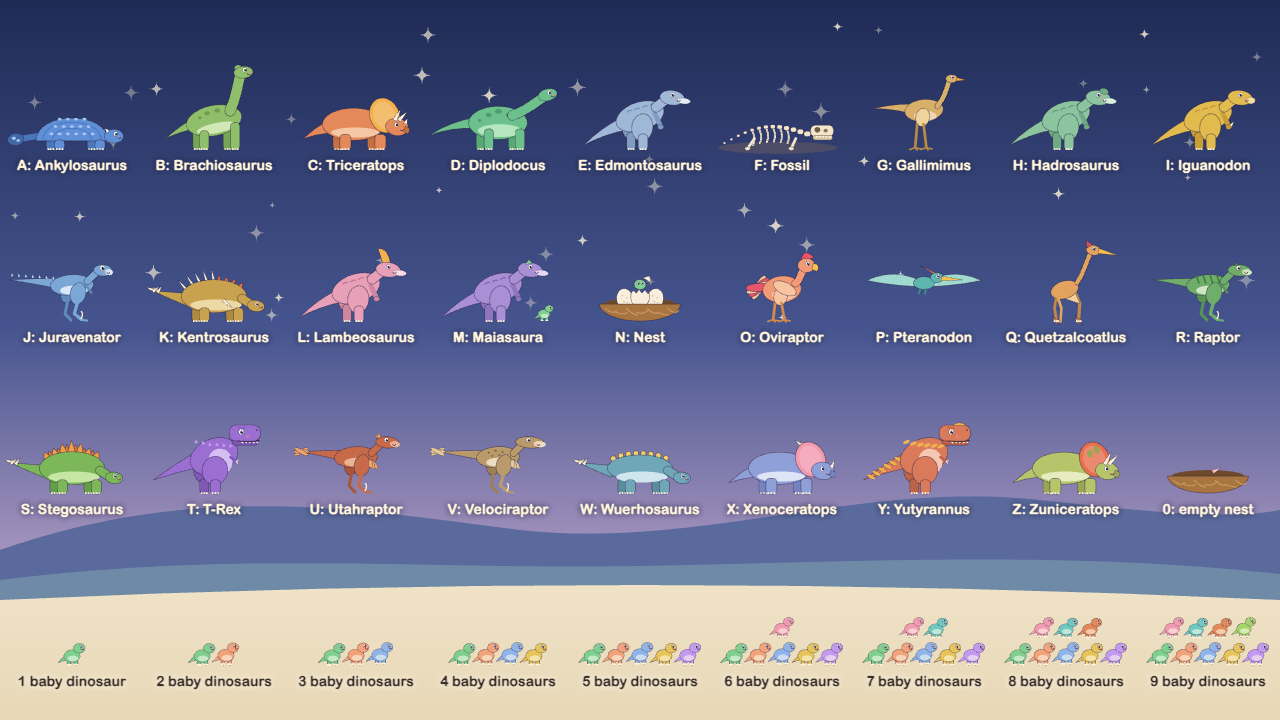
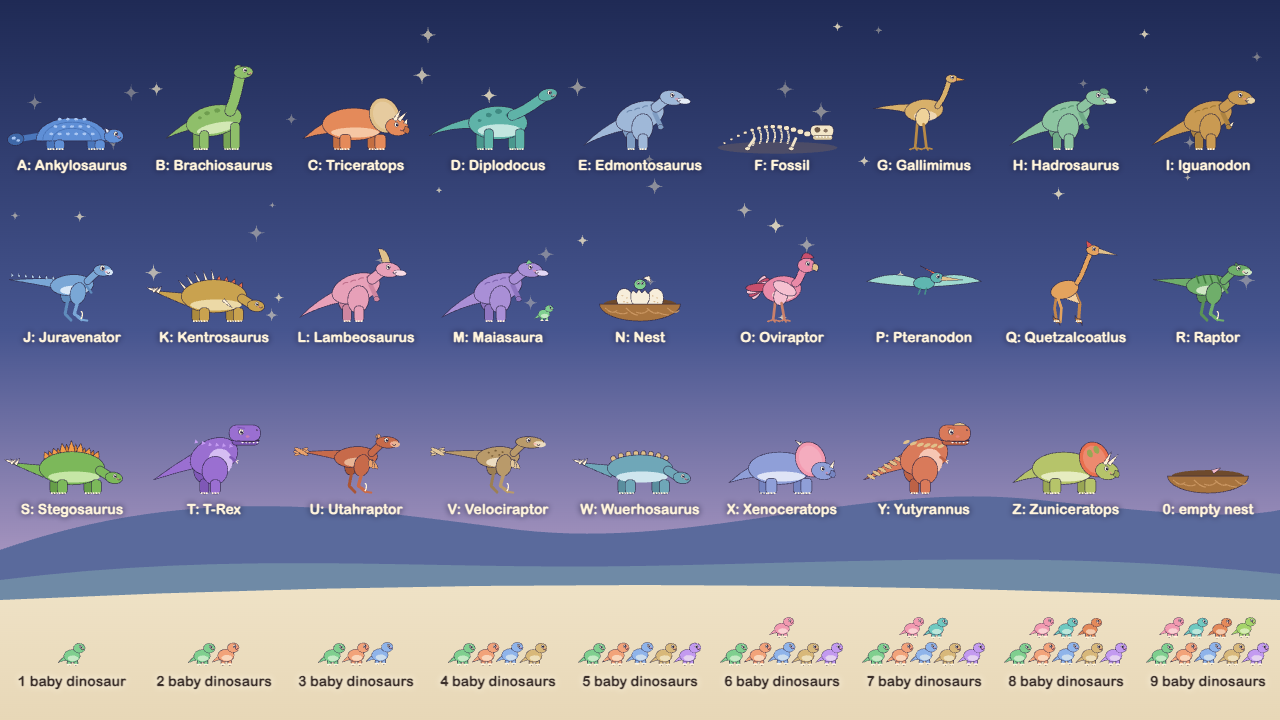
iteration 4: added tap-the-creature sound; art bible section 4 applied
Brief: design/game-brief.md

Tap the formed creature: it hops and makes its own sound again (cooldown). Art bible
section 4 (colour system) approved by Luan and applied to the one-shot: outline 80%,
hint ink #b9631c, hints in the sky only, round still queue tokens, dimmed moon, Starlight
caps, Dusk Blue grown-up accent, O rose, D teal, ochre yellows.

Task: K-06

diff --git a/games/kid-learn-character/prototypes/letter-morph-dinosaur/index.html b/games/kid-learn-character/prototypes/letter-morph-dinosaur/index.html
@@ -19,10 +19,10 @@
   #grownup h2 { margin: 0 0 6px; font-size: 22px; }
   #grownup p { margin: 0 0 14px; color: #6a5a50; font-size: 14px; }
   #grownup label { display: grid; grid-template-columns: 1fr 64px; gap: 4px 10px; margin: 10px 0; font-size: 15px; }
-  #grownup input[type=range] { grid-column: 1 / 3; width: 100%; accent-color: #e8a33c; }
+  #grownup input[type=range] { grid-column: 1 / 3; width: 100%; accent-color: #46558f; }
   #grownup .row { display: flex; flex-wrap: wrap; gap: 10px; margin-top: 16px; }
   #grownup button { font: inherit; border: 0; border-radius: 14px; padding: 10px 16px; background: #e9dcc5; color: #3b2f2a; cursor: pointer; }
-  #grownup button.main { background: #e8a33c; color: #fff; }
+  #grownup button.main { background: #46558f; color: #fff; }
 </style>
 </head>
 <body>
@@ -238,7 +238,7 @@ function say(words, cancel) {
 
 // ---- Drawing helpers: every figure drawn in code, flat storybook 2D -----------------------
 let MONO = false; // true while sampling a silhouette: everything fills white
-const OUT = 'rgba(40,30,60,0.55)';
+const OUT = 'rgba(42,35,64,0.8)'; // ink outline at 80% (art bible §4: the outline carries creatures on light skies)
 function E(c, x, y, rx, ry, rot = 0) { c.beginPath(); c.ellipse(x, y, rx, ry, rot, 0, TAU); }
 function RR(c, x, y, w, h, r) {
   c.beginPath(); c.moveTo(x + r, y); c.arcTo(x + w, y, x + w, y + h, r); c.arcTo(x + w, y + h, x, y + h, r);
@@ -248,7 +248,7 @@ function F(c, col) { c.fillStyle = MONO ? '#fff' : col; c.fill(); }
 function O(c, w = 3) { if (MONO) return; c.strokeStyle = OUT; c.lineWidth = w; c.lineJoin = 'round'; c.stroke(); }
 function S(c, col, w) { c.strokeStyle = MONO ? '#fff' : col; c.lineWidth = w; c.lineCap = 'round'; c.lineJoin = 'round'; c.stroke(); }
 function eye(c, x, y, r) {
-  E(c, x, y, r, r * 1.12); F(c, '#fffdf7'); O(c, 2);
+  E(c, x, y, r, r * 1.12); F(c, '#f8efdc'); O(c, 2);
   if (MONO) return;
   E(c, x + r * 0.22, y + r * 0.12, r * 0.58, r * 0.66); F(c, '#2a2340');
   E(c, x + r * 0.42, y - r * 0.18, r * 0.2, r * 0.2); F(c, '#ffffff');
@@ -316,7 +316,7 @@ const CREATURES = {
     }
   },
   duckbill(c, t, pal, o = {}) { // Iguanodon (thumb spike), Edmontosaurus (duck bill), Hadrosaurus (bill + nose bump), Lambeosaurus (hatchet crest), Maiasaura (brow crest + a baby)
-    const P = pick(pal, { body: '#e2bb4f', dark: '#c99f35', belly: '#f3dfa0', stripe: '#c18f2a', crest: '#e8704f' });
+    const P = pick(pal, { body: '#c99a52', dark: '#ad8340', belly: '#e9d4a6', stripe: '#9e7633', crest: '#e8704f' });
     const nod = Math.sin(t * 1.7) * 4, hx = 140, hy = -226 + nod;
     taper(c, -60, -118, -170, -80, -245, -20, 30); F(c, P.body); O(c);
     E(c, -35, -100, 42, 56, 0.15); F(c, P.dark); O(c);
@@ -361,7 +361,7 @@ const CREATURES = {
     }
   },
   ostrich(c, t, pal, o = {}) { // Oviraptor (crest, fan tail), Gallimimus (no crest, long neck, long legs)
-    const P = pick(pal, { body: '#f29a76', feather: '#f7c59f', crest: '#e8566b', leg: '#d98a4a', beak: '#f6c14b' });
+    const P = pick(pal, { body: '#e98aa8', feather: '#f5c0d0', crest: '#c94f6d', leg: '#c9806a', beak: '#e0c08a' });
     const bob = Math.sin(t * 2.4) * 4, gal = !!o.gallimimus, lift = gal ? 30 : 0;
     if (gal) { taper(c, -60, -150 - lift, -140, -160 - lift, -220, -150 - lift, 20); F(c, P.body); O(c); }
     else [[-0.2, P.feather], [0.15, P.crest], [0.5, P.feather], [0.85, P.crest]].forEach(([a, col]) => { E(c, -100, -150, 58, 18, -0.9 + a); F(c, col); O(c); });
@@ -484,7 +484,7 @@ const CREATURES = {
     c.restore();
   },
   horned(c, t, pal, o = {}) { // Triceratops (three horns), Xenoceratops (spiky frill), Zuniceratops (two brow horns, frill windows)
-    const P = pick(pal, { body: '#e48a5a', dark: '#c46f42', belly: '#f6c7a4', frill: '#f2b04f', horn: '#fff1d6' });
+    const P = pick(pal, { body: '#e48a5a', dark: '#c46f42', belly: '#f6c7a4', frill: '#e0c08a', horn: '#fff1d6' });
     const nod = Math.sin(t * 1.6) * 3, h = o.horns || 'tri';
     taper(c, -120, -100, -180, -80, -230, -50, 26); F(c, P.body); O(c);
     leg(c, -100, -74, 44, 74, P.dark); leg(c, 50, -74, 44, 74, P.dark);
@@ -504,7 +504,7 @@ const CREATURES = {
     c.restore();
   },
   flyer(c, t, pal, o = {}) { // Pteranodon (flying, long back crest), Quetzalcoatlus (standing tall on four long limbs)
-    const P = pick(pal, { body: '#5fb6b0', dark: '#468f8a', wing: '#9fd9cf', beak: '#f6c14b', crest: '#e8704f' });
+    const P = pick(pal, { body: '#5fb6b0', dark: '#468f8a', wing: '#9fd9cf', beak: '#e0c08a', crest: '#e8704f' });
     if (o.standing) {
       const sway = Math.sin(t * 1.2) * 5;
       c.beginPath(); c.moveTo(-40, -120); c.lineTo(-50, -60); c.lineTo(-40, 0); S(c, P.dark, 12);
@@ -547,7 +547,7 @@ const CREATURES = {
     c.restore();
   },
   babies(c, t, pal, o = {}) { // the numbers: exactly n little hatchlings
-    const n = o.n || 1, cols = ['#7fcf8f', '#f2a37a', '#8fb4ea', '#e7c45a', '#c39af0', '#f29ab0', '#6fc9c0', '#e48a5a', '#a5d46a'];
+    const n = o.n || 1, cols = ['#7fcf8f', '#f2a37a', '#8fb4ea', '#d8b87a', '#c39af0', '#f29ab0', '#6fc9c0', '#e48a5a', '#a5d46a'];
     const front = Math.min(n, 5), backN = n - front;
     for (let i = 0; i < backN; i++) baby(c, (i - (backN - 1) / 2) * 104, -118, 0.95, cols[(i + 5) % cols.length], t, i + 5);
     for (let i = 0; i < front; i++) baby(c, (i - (front - 1) / 2) * 104, 0, 1.05, cols[i % cols.length], t, i);
@@ -573,7 +573,8 @@ function bakeShapes() {
       c.fillStyle = '#fff'; c.font = `900 ${LETTER_SIZE}px ${GLYPH_FONT}`; c.textAlign = 'center'; c.textBaseline = 'middle'; c.fillText(L, 230, 240);
     }, 230, 240);
     const body = sample(680, 440, c => { MONO = true; c.translate(340, 410); drawKind(c, L, 0); MONO = false; }, 340, 410);
-    shapes[L] = { glyph, body };
+    const xs = body.map(q => q[0]), ys = body.map(q => q[1]);
+    shapes[L] = { glyph, body, box: { x0: Math.min(...xs), x1: Math.max(...xs), y0: Math.min(...ys), y1: Math.max(...ys) } };
   }
 }
 bakeShapes();
@@ -581,7 +582,7 @@ bakeShapes();
 // ---- Layout ------------------------------------------------------------------------------
 // No fixed key row: a few glowing letters drift in at random spots as hints, and can be tapped.
 const KEYBOARD_FROM = { x: 640, y: 700 }; // a letter pressed on a real keyboard rises from here
-const HINT_AREAS = [{ x0: 110, x1: 380, y0: 160, y1: 560 }, { x0: 900, x1: 1170, y0: 160, y1: 560 }];
+const HINT_AREAS = [{ x0: 110, x1: 380, y0: 150, y1: 420 }, { x0: 900, x1: 1170, y0: 150, y1: 420 }]; // sky only (art bible §4)
 function spawnHint() {
   const onScreen = state.hints.map(h => h.L).concat(state.cur ? [state.cur.letter] : []);
   const pool = KEY_ORDER.filter(L => !onScreen.includes(L));
@@ -670,6 +671,19 @@ function burst(x, y, n) {
     sparks.push({ x, y, vx: Math.cos(a) * s, vy: Math.sin(a) * s - 30, life: 0.6 + rng() * 0.4, age: 0, size: 3 + rng() * 4 });
   }
 }
+function onCreature(p) { // the formed creature on stage, by its silhouette's box
+  const cur = state.cur;
+  if (!cur || !cur.fired.form) return false;
+  const b = shapes[cur.letter].box, sc = tune.creature_scale;
+  return p.x >= ANCHOR_X + b.x0 * sc && p.x <= ANCHOR_X + b.x1 * sc && p.y >= ANCHOR_Y + b.y0 * sc && p.y <= ANCHOR_Y + b.y1 * sc;
+}
+function tapCreature(p) { // it hops and makes its own sound again
+  const cur = state.cur;
+  if (state.t - (cur.lastTap ?? -99) < tune.tap_cooldown_s) { burst(p.x, p.y, 4); return; }
+  cur.lastTap = state.t; cur.hop = 0;
+  creatureSound(cur.letter); burst(p.x, p.y, 6);
+  state.taps = (state.taps || 0) + 1; events.push({ type: 'creature-tap', letter: cur.letter });
+}
 function nothingPress(x, y) { ping(); burst(x, y, 6); }
 
 // ---- Scenes ------------------------------------------------------------------------------
@@ -716,7 +730,7 @@ const scenes = {
       }
       while (taps.length) {
         const p = taps.shift(), h = hintAt(p);
-        if (h) pressLetter(h.L, h); else nothingPress(p.x, p.y);
+        if (h) pressLetter(h.L, h); else if (onCreature(p)) tapCreature(p); else nothingPress(p.x, p.y);
       }
       // hint letters drift in, linger and fade, a few at a time
       for (let i = state.hints.length - 1; i >= 0; i--) { const h = state.hints[i]; h.age += dt; if (h.age > h.life) state.hints.splice(i, 1); }
@@ -731,6 +745,7 @@ const scenes = {
           if (!state.seen.includes(cur.letter)) state.seen.push(cur.letter);
           events.push({ type: 'formed', letter: cur.letter });
         }
+        if (cur.hop !== undefined) { cur.hop += dt; if (cur.hop > tune.hop_s) cur.hop = undefined; }
         if (state.queue.length && cur.t >= holdTime()) { const q = state.queue.shift(); startReveal(q.L, q.from); }
       }
       if (state.prev) { state.prev.t += dt; state.prev.fade += dt; if (state.prev.fade > 0.45) state.prev = null; }
@@ -774,7 +789,7 @@ function drawSky() {
   g.addColorStop(0, '#1f2a55'); g.addColorStop(0.55, '#46558f'); g.addColorStop(1, '#b8a0c8');
   ctx.fillStyle = g; ctx.fillRect(0, 0, W, H);
   const tt = state ? state.t : 0;
-  ctx.fillStyle = '#fff6da';
+  ctx.fillStyle = '#fbeec8'; // Starlight (frame cap)
   for (const s of STARS) { ctx.globalAlpha = 0.35 + 0.45 * (0.5 + 0.5 * Math.sin(tt * s.sp + s.ph)); star4(s.x, s.y, s.s); }
   ctx.globalAlpha = 1;
 }
@@ -793,11 +808,11 @@ function drawGround() {
 }
 function drawMoon() {
   const { x, y } = GATE;
-  glowDisk(x, y, 60, 'rgba(255,240,190,0.35)');
-  ctx.fillStyle = '#fff2c4'; ctx.beginPath(); ctx.arc(x, y, 26, 0, TAU); ctx.arc(x + 11, y - 8, 22, 0, TAU, true); ctx.fill('evenodd');
+  glowDisk(x, y, 50, 'rgba(230,214,164,0.22)');
+  ctx.fillStyle = '#e6d6a4'; /* the moon, dimmed below the glyph (art bible §2) */ ctx.beginPath(); ctx.arc(x, y, 26, 0, TAU); ctx.arc(x + 11, y - 8, 22, 0, TAU, true); ctx.fill('evenodd');
   if (gateHeld && state && state.gate > 0) {
     ctx.beginPath(); ctx.arc(x, y, 38, -Math.PI / 2, -Math.PI / 2 + TAU * clamp01(state.gate / tune.gate_hold_s));
-    ctx.strokeStyle = '#ffd36e'; ctx.lineWidth = 5; ctx.lineCap = 'round'; ctx.stroke();
+    ctx.strokeStyle = '#fbeec8'; ctx.lineWidth = 5; ctx.lineCap = 'round'; ctx.stroke();
   }
 }
 function drawPlay(x, y, t) {
@@ -841,7 +856,8 @@ function drawReveal() {
   if (t >= ph.flowEnd) {
     const u = smooth((t - ph.flowEnd) / (ph.formEnd - ph.flowEnd));
     const pop = 0.92 + 0.08 * u + Math.sin(u * Math.PI) * 0.03;
-    drawCreature(L, ANCHOR_X, ANCHOR_Y, tune.creature_scale * pop, t - ph.flowEnd, u);
+    const hop = cur.hop !== undefined ? Math.sin(Math.PI * clamp01(cur.hop / tune.hop_s)) * tune.hop_px : 0;
+    drawCreature(L, ANCHOR_X, ANCHOR_Y - hop, tune.creature_scale * pop, t - ph.flowEnd, u);
   }
   // 3-4. stardust: in the letter's outline, then flowing to the creature's shape
   if (t >= ph.glowEnd && t < ph.formEnd + 0.2) {
@@ -860,7 +876,7 @@ function drawReveal() {
       }
       const tw = 0.6 + 0.4 * Math.sin(t * 9 + p.ph);
       ctx.globalAlpha = a * tw;
-      ctx.fillStyle = p.gold ? '#ffd27a' : '#fff8e8';
+      ctx.fillStyle = p.gold ? '#ffd27a' : '#fbeec8';
       const s = p.size;
       if (s > 3.2) star4(x, y, s * 0.55); else ctx.fillRect(x - s / 2, y - s / 2, s, s);
     }
@@ -873,12 +889,12 @@ function drawPrev() {
   if (p.t < ph.flowEnd) return; // it never formed: nothing to fade
   drawCreature(p.letter, ANCHOR_X, ANCHOR_Y + u * 12, tune.creature_scale * (1 - u * 0.08), p.t - ph.flowEnd, 1 - u);
 }
-function drawQueue() { // letters waiting their turn: small glowing bubbles, top right
+function drawQueue() { // letters waiting their turn: small round tokens in a still row, top right (art bible §3)
   state.queue.forEach(({ L }, i) => {
-    const x = 1210 - i * 74, y = 58 + Math.sin(state.t * 3 + i) * 4;
-    glowDisk(x, y, 46, 'rgba(255,214,110,0.35)');
-    RR(ctx, x - 28, y - 28, 56, 56, 22); ctx.fillStyle = 'rgba(255,246,222,0.92)'; ctx.fill();
-    ctx.save(); ctx.font = `900 34px ${GLYPH_FONT}`; ctx.textAlign = 'center'; ctx.textBaseline = 'middle'; ctx.fillStyle = '#e09a2e'; ctx.fillText(L, x, y + 2); ctx.restore();
+    const x = 1214 - i * 66, y = 58;
+    glowDisk(x, y, 40, 'rgba(255,214,110,0.28)');
+    ctx.beginPath(); ctx.arc(x, y, 26, 0, TAU); ctx.fillStyle = '#f8efdc'; ctx.fill();
+    ctx.save(); ctx.font = `900 30px ${GLYPH_FONT}`; ctx.textAlign = 'center'; ctx.textBaseline = 'middle'; ctx.fillStyle = '#b9631c'; ctx.fillText(L, x, y + 2); ctx.restore();
   });
 }
 function drawHints() { // glowing letters drifting on screen: a hint and a tap target
@@ -890,9 +906,9 @@ function drawHints() { // glowing letters drifting on screen: a hint and a tap t
     ctx.save(); ctx.globalAlpha = a;
     glowDisk(x, y, sz * 0.95, `rgba(255,214,110,${0.35 + pulse * 0.2})`);
     ctx.shadowColor = 'rgba(255,200,80,0.8)'; ctx.shadowBlur = 18 + pulse * 14;
-    RR(ctx, x - sz / 2, y - sz / 2, sz, sz, sz * 0.36); ctx.fillStyle = 'rgba(255,248,230,0.95)'; ctx.fill(); ctx.shadowBlur = 0;
+    RR(ctx, x - sz / 2, y - sz / 2, sz, sz, sz * 0.36); ctx.fillStyle = '#f8efdc'; ctx.fill(); ctx.shadowBlur = 0;
     ctx.font = `900 ${Math.round(sz * 0.66)}px ${GLYPH_FONT}`; ctx.textAlign = 'center'; ctx.textBaseline = 'middle';
-    ctx.fillStyle = '#e0892a'; ctx.fillText(h.L, x, y + sz * 0.04);
+    ctx.fillStyle = '#b9631c'; ctx.fillText(h.L, x, y + sz * 0.04);
     ctx.fillStyle = `rgba(255,236,170,${0.6 + 0.4 * Math.sin(state.t * 5 + h.ph)})`; star4(x + sz * 0.42, y - sz * 0.42, 4 + pulse * 3);
     ctx.restore();
   }

diff --git a/games/kid-learn-character/prototypes/letter-morph-dinosaur/config.js b/games/kid-learn-character/prototypes/letter-morph-dinosaur/config.js
@@ -26,6 +26,10 @@ window.CONFIG = {
   creature_scale: { value: 1, min: 0.6, max: 1.3, step: 0.05 },
   bob_px: { value: 5, min: 0, max: 15, step: 1 },                // px: idle breathing bob
   key_flash_s: { value: 0.35, min: 0.1, max: 1, step: 0.05 },    // s: a pressed key glows this long
+  // --- Tap the creature: it hops and makes its own sound again (After play: helps the child learn it) ---
+  tap_cooldown_s: { value: 0.9, min: 0.2, max: 3, step: 0.1 },   // s: taps closer than this only sparkle, so sounds never stack
+  hop_px: { value: 26, min: 0, max: 60, step: 2 },               // px: how high the creature hops on a tap
+  hop_s: { value: 0.45, min: 0.2, max: 1, step: 0.05 },          // s: the hop's length
   // --- Sound and voice ---
   voice_rate: { value: 0.85, min: 0.5, max: 1.3, step: 0.05 },
   voice_pitch: { value: 1.15, min: 0.5, max: 2, step: 0.05 },
@@ -55,7 +59,7 @@ window.KEY_TABLE = {
   A: { name: 'Ankylosaurus', word: 'ankylosaurus', say: 'A.', creature: 'ankylosaurus', sound: { kind: 'thump', f0: 60, cut: 380, dur: 0.8, vol: 0.7, vib: 4 } },
   B: { name: 'Brachiosaurus', word: 'brachiosaurus', say: 'bee', creature: 'sauropod', opts: { tall: true }, pal: { body: '#8fbf6a', dark: '#77a556', belly: '#d2e8b4', spot: '#6f9e4f' }, sound: ROAR_DEEP },
   C: { name: 'Triceratops', word: 'triceratops', say: 'see', creature: 'horned', opts: { horns: 'tri' }, sound: GRUMBLE },
-  D: { name: 'Diplodocus', word: 'diplodocus', say: 'dee', creature: 'sauropod', sound: ROAR_DEEP },
+  D: { name: 'Diplodocus', word: 'diplodocus', say: 'dee', creature: 'sauropod', pal: { body: '#5fb3a8', dark: '#4a988e', belly: '#c2e6e0', spot: '#3f8a82' }, sound: ROAR_DEEP },
   E: { name: 'Edmontosaurus', word: 'edmontosaurus', say: 'ee', creature: 'duckbill', opts: { head: 'duck' }, pal: { body: '#9fb8d8', dark: '#7f9cc2', belly: '#e4ecf6', stripe: '#6f8bb0' }, sound: HONK },
   F: { name: 'Fossil', word: 'fossil', say: 'eff', creature: 'fossil', sound: { kind: 'crack' } },
   G: { name: 'Gallimimus', word: 'gallimimus', say: 'jee', creature: 'ostrich', opts: { gallimimus: true }, pal: { body: '#d8b06a', feather: '#efd39a', leg: '#b98a46', beak: '#f2a640' }, sound: CHIRP },
@@ -63,7 +67,7 @@ window.KEY_TABLE = {
   I: { name: 'Iguanodon', word: 'iguanodon', say: 'eye', creature: 'duckbill', opts: { head: 'thumb' }, sound: HONK },
   J: { name: 'Juravenator', word: 'juravenator', say: 'jay', creature: 'raptor', opts: { fuzz: true, snout: 0.8, tail: 1.15, bigEye: true }, pal: { body: '#7aa7d6', dark: '#5f8cbc', feather: '#b9d6f2', belly: '#d9e8f7' }, sound: SCREECH },
   K: { name: 'Kentrosaurus', word: 'kentrosaurus', say: 'kay', creature: 'plated', opts: { kind: 'kentro' }, pal: { body: '#c9a24f', dark: '#ad8a3e', belly: '#ecd9a6', plate: '#e86f4f' }, sound: GRUMBLE },
-  L: { name: 'Lambeosaurus', word: 'lambeosaurus', say: 'el', creature: 'duckbill', opts: { head: 'hatchet' }, pal: { body: '#e7a0b8', dark: '#cf86a0', belly: '#f8dbe5', stripe: '#bf6f8c', crest: '#f2b04f' }, sound: HONK },
+  L: { name: 'Lambeosaurus', word: 'lambeosaurus', say: 'el', creature: 'duckbill', opts: { head: 'hatchet' }, pal: { body: '#e7a0b8', dark: '#cf86a0', belly: '#f8dbe5', stripe: '#bf6f8c', crest: '#e0c08a' }, sound: HONK },
   M: { name: 'Maiasaura', word: 'maiasaura', say: 'em', creature: 'duckbill', opts: { head: 'brow', baby: true }, pal: { body: '#a98fd6', dark: '#8f75c0', belly: '#e3d8f5', stripe: '#7c62ad', crest: '#7fcf8f' }, sound: HONK },
   N: { name: 'Nest', word: 'nest', say: 'en', creature: 'nest', sound: { kind: 'crack' } },
   O: { name: 'Oviraptor', word: 'oviraptor', say: 'oh', creature: 'ostrich', sound: CHIRP },
@@ -74,9 +78,9 @@ window.KEY_TABLE = {
   T: { name: 'T-Rex', word: 'tee rex', say: 'tee', creature: 'rex', sound: ROAR_BIG },
   U: { name: 'Utahraptor', word: 'utahraptor', say: 'you', creature: 'raptor', opts: { armFeathers: true, crest: true }, sound: RAPTOR },
   V: { name: 'Velociraptor', word: 'velociraptor', say: 'vee', creature: 'raptor', opts: { armFeathers: true, speckles: true, snout: 1.25, tail: 1.1 }, pal: { body: '#b99a6a', dark: '#9c7f54', feather: '#e2c79a', belly: '#ecdcc0', mark: '#7a5f3a' }, sound: RAPTOR },
-  W: { name: 'Wuerhosaurus', word: 'wuerhosaurus', say: 'double you', creature: 'plated', opts: { kind: 'wuerho' }, pal: { body: '#6fa7b8', dark: '#5a8e9e', belly: '#cfe6ee', plate: '#f2d06a' }, sound: GRUMBLE },
+  W: { name: 'Wuerhosaurus', word: 'wuerhosaurus', say: 'double you', creature: 'plated', opts: { kind: 'wuerho' }, pal: { body: '#6fa7b8', dark: '#5a8e9e', belly: '#cfe6ee', plate: '#e0c08a' }, sound: GRUMBLE },
   X: { name: 'Xenoceratops', word: 'xenoceratops', say: 'ex', creature: 'horned', opts: { horns: 'xeno' }, pal: { body: '#8f9fd8', dark: '#7584c0', belly: '#dfe4f6', frill: '#f29ab0' }, sound: GRUMBLE },
-  Y: { name: 'Yutyrannus', word: 'yutyrannus', say: 'why', creature: 'rex', opts: { feathers: true }, pal: { body: '#d97a5a', dark: '#bd6246', belly: '#f6c7b4', ridge: '#f2b04f' }, sound: ROAR_BIG },
+  Y: { name: 'Yutyrannus', word: 'yutyrannus', say: 'why', creature: 'rex', opts: { feathers: true }, pal: { body: '#d97a5a', dark: '#bd6246', belly: '#f6c7b4', ridge: '#e0c08a' }, sound: ROAR_BIG },
   Z: { name: 'Zuniceratops', word: 'zuniceratops', say: 'zee', creature: 'horned', opts: { horns: 'zuni' }, pal: { body: '#b6c46a', dark: '#99a654', belly: '#e6ecc0', frill: '#e8704f' }, sound: GRUMBLE },
 };
 // The numbers: the digit morphs into exactly that many baby dinosaurs (0: an empty nest).

diff --git a/games/kid-learn-character/design/art/art-bible.md b/games/kid-learn-character/design/art/art-bible.md
@@ -179,10 +179,92 @@ outline marks a hero.**
 
 ## 4. Color System
 
-[To be designed] — a primary palette of 5–7 colours with their meaning in this
-world, semantic colour usage, per-area colour temperature rules, the UI palette
-and where it diverges, and colourblind safety: which semantic colours need a
-shape, icon or sound backup.
+**Colour rule: gold is a letter, and every other colour makes room for it.** No colour means
+danger, failure or reward. There is no wrong press, so the game never uses red for wrong, green for
+right, or gold for "well done": every press is answered the same way.
+
+### Fixed hues (the same in every look)
+
+| Token | Hexes | Meaning and use |
+|---|---|---|
+| **Letter Gold** | fill `#fff1b8` / `#ffd36e` / `#f6a93b`; outline `#8a4b12`; token ink `#b9631c` | "A letter or number lives here." The glyph, hints, queued tokens and the title's play button (their door, Section 2). Nothing else is gold. |
+| **Starlight** | `#fbeec8` (L 0.86) | "I heard you." Sparkles, pale stardust specks, sky stars at ≤ 80% alpha; also the moon's progress ring. |
+| **Ink** | `#2a2340`; creature outline at **80%** in every look | "A hero" (Section 3): outlines, pupils, smiles. |
+| **Stage Cream** | stage `#efe2c6` → `#e3d1ae`; highlight `#f8efdc` (L 0.87); bone `#f3e6c8`; card `#fbf4e6` | Ground, token bubbles, horns, toes, eye whites. |
+| **Shared constants** | nest `#a8743f`, fossil rock `#6e4a2c`, moon `#e6d6a4` | The same object in every theme and look. |
+
+Section 2's frame cap (L 0.88) applies to these tokens too: the prototype's stars `#fff6da`,
+stardust `#fff8e8`, hint bubble and eye whites (L 0.92–0.99) move to Starlight and highlight
+cream. The grown-up card is exempt: it sits under the 55% navy dim.
+
+### Per-look stage palettes
+
+Section 2's table holds every stage hex. A look or a weather tint is valid when all three hold:
+1. every sky stop, sun, moon, cloud and flake stays at or below L 0.69;
+2. the glyph reaches ≥ 3:1 against the sky's mid band, through its fill or its amber outline;
+3. it uses no Letter Gold, and any stage yellow stays pale, like the sun `#ecd29a`.
+
+**Temperature:** the glyph is the warmest thing in every look. *Morning:* cool at the top, warmth
+only in the peach horizon band. *Day:* neutral to cool; warmth comes only from the glyph and the
+creatures. *Dusk (home):* cool blue with a lilac horizon. *Night:* the coolest look; the moon is
+the only warm sky element, and it is desaturated. Weather is picked by hand by a grown-up behind
+the parent gate, and it only cools or greys the scene (rain takes 10% saturation off; snow is
+`#cfd6e3`). The parade's horizon lift is the only allowed warming.
+
+### Creature palettes
+
+Each creature's body takes one of eight hue **slots**. A slot holds at most 4 creatures per theme.
+Siblings in one family never share a slot, and never use leaf and mint together (they read as one
+green). F and N are objects and use the shared constants.
+
+| Slot | Hue | Dinosaurs (applied 2026-11-17) |
+|---|---|---|
+| Rose | 320–355° | L, O |
+| Coral | 5–32° | C, Q, U, Y |
+| Ochre | 33–50°, S ≤ 60% | G, I, K, V |
+| Leaf | 65–130° | B, R, S, Z |
+| Mint | 130–165° | H |
+| Teal | 165–200° | P, W, D |
+| Blue | 200–235° | A, E, J, X |
+| Violet | 250–290° | M, T |
+
+- **Band:** body relative luminance 0.20–0.47, HSL saturation 35–65%; accents (plates, frills,
+  crests) up to 75%.
+- **Ochre, never gold:** creature yellows stay at ≤ 60% saturation and lean toward brown (`#c99a52`,
+  `#e0c08a`; baby `#d8b87a`). The prototype's `#f2b04f`, `#f2d06a`, `#f6c14b`, `#e2bb4f`,
+  `#e7c45a` move to these.
+- **Greyscale stage test, every look (and with snow).** A creature passes when it separates from
+  both the sky's mid band and the front hill: body ≥ 1.5:1 or outline ≥ 3:1. At night the body
+  carries it; at dusk the body carries it against the sky; in morning, day and against the dusk
+  front hill only the outline carries it (a mid-tone body is ~1.05:1 on the dusk hill, ~1.2:1 on
+  the day sky). That is why the outline is 80%: 3.2:1 on the dusk hill and 3.9:1 on the day hill,
+  against 2.3:1 and 2.6:1 at the prototype's 55%.
+- **Number babies:** nine pastels, one per slot plus a second coral (apricot), always in the same
+  order so neighbouring babies differ.
+
+### UI palette
+
+- **Hints and queued tokens:** Letter Gold ink `#b9631c` on highlight cream (about 4:1; the
+  prototype's `#e0892a` was about 2.5:1). Hints spawn **in the sky only**: on the cream ground a
+  cream bubble loses its edge and crowds the creature's ground line.
+- **"Seen" letters get no mark** (Luan, 2026-11-17): the parade already shows progress, and a mark
+  would introduce a reward colour.
+- **Grown-up panel and moon ring:** panel controls in Dusk Blue `#46558f` (6.5:1 on the card) and
+  the moon's progress ring in Starlight (Luan, 2026-11-17), so gold means only letters. Trade-off:
+  the ring is weaker on the day sky (~2.5:1); its length and the hold time carry it.
+
+### Colourblind safety
+
+| Meaning | Colour | Backup cue |
+|---|---|---|
+| A letter or number | Letter Gold | Largest, centred, outlined, spoken |
+| I heard you | Starlight | Four-point star at the press point, plus a chime |
+| Hint vs waiting | Same gold on cream | Drifting rounded square vs a small circle in a still row |
+| Which creature | Slot | Silhouette trait and spoken name |
+| Moon gate progress | Ring | Ring length and hold time |
+
+Under deuteranopia leaf, ochre and coral converge, so raptors R, U and V become one brown. Their
+outline traits (Section 3) tell them apart, which is why markings are never the only difference.
 
 ## 5. Character Design Direction
 

diff --git a/games/kid-learn-character/design/game-brief.md b/games/kid-learn-character/design/game-brief.md
@@ -15,6 +15,7 @@ After play (asked): the A–Z table and numbers as N baby dinosaurs — "Làm đ
 After play: khoảnh khắc hay và vui nhất là sau khi kết thúc 1 loạt phím, thì có đoàn khủng long chạy qua, rất vui và bất ngờ
 After play: tệ nhất là khi nhấn vào các phím controls, thì có thê bị chuyển app hoặc mất focus lên game
 After play: trong bản dùng thử, phần đọc ký tự A đang bị sai, đang theo tiếng Việt, không đúng tiếng Anh
+After play: nên bổ sung âm thanh khi bé tap lên con vật hoặc xe, những đối tượng có âm thanh đặc trưng, sẽ giúp bé học nhanh hơn cách nhận biết
 
 **Pitch:** Dinosaurs is the theme: a toddler presses any letter or number, and the big glowing letter dissolves into stardust and becomes a dinosaur-world creature (C: triceratops) or that many baby dinosaurs, while a voice says "C… triceratops!".
 
@@ -55,6 +56,7 @@ None by design: there is no failure and no wrong key. What changes: discovering 
 - [ ] Sound: synthesized roar or chirp per creature plus sparkle chime; browser speech in US English, just the letter's name then the word: "D… dinosaur" (never "letter D")
 - [x] Mash queue: max 3 pending, ~3 s hold while queued, extra presses sparkle only
 - [x] A parade of the last 8 new creatures, every 8 met *(guessed)*
+- [x] Tap the creature on stage: it hops and makes its own sound again (a short cooldown so sounds never stack)
 - [x] Tweak panel (queue size, hold time, morph speed, volume), hidden behind a long-press corner (parent gate stand-in) *(provisional)*
 
 ## Keep

diff --git a/games/kid-learn-character/prototypes/letter-morph-dinosaur/brief.md b/games/kid-learn-character/prototypes/letter-morph-dinosaur/brief.md
@@ -15,6 +15,7 @@ After play (asked): the A–Z table and numbers as N baby dinosaurs — "Làm đ
 After play: khoảnh khắc hay và vui nhất là sau khi kết thúc 1 loạt phím, thì có đoàn khủng long chạy qua, rất vui và bất ngờ
 After play: tệ nhất là khi nhấn vào các phím controls, thì có thê bị chuyển app hoặc mất focus lên game
 After play: trong bản dùng thử, phần đọc ký tự A đang bị sai, đang theo tiếng Việt, không đúng tiếng Anh
+After play: nên bổ sung âm thanh khi bé tap lên con vật hoặc xe, những đối tượng có âm thanh đặc trưng, sẽ giúp bé học nhanh hơn cách nhận biết
 
 **Pitch:** Dinosaurs is the theme: a toddler presses any letter or number, and the big glowing letter dissolves into stardust and becomes a dinosaur-world creature (C: triceratops) or that many baby dinosaurs, while a voice says "C… triceratops!".
 
@@ -55,6 +56,7 @@ None by design: there is no failure and no wrong key. What changes: discovering 
 - [ ] Sound: synthesized roar or chirp per creature plus sparkle chime; browser speech in US English, just the letter's name then the word: "D… dinosaur" (never "letter D")
 - [x] Mash queue: max 3 pending, ~3 s hold while queued, extra presses sparkle only
 - [x] A parade of the last 8 new creatures, every 8 met *(guessed)*
+- [x] Tap the creature on stage: it hops and makes its own sound again (a short cooldown so sounds never stack)
 - [x] Tweak panel (queue size, hold time, morph speed, volume), hidden behind a long-press corner (parent gate stand-in) *(provisional)*
 
 ## Keep
